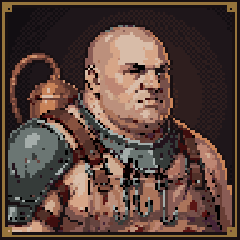
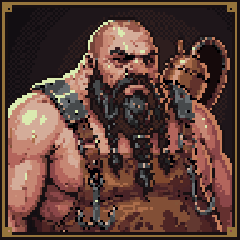
ART3B: stylized re-roll of the 9 human Sunk Ward portraits (ART3_PROMPTS.md style block gains stylization and hair lines, Mara Voss as style and framing reference only; faction-scaled character blocks with varied hair); user picks placed (Vane, Quell, Orlov, Nemeth, Husk, Tess, Bram take 1; Purifier
Review: change-reviewer ship (note: the placed Tess was made with the old left-ear prompt; a Tess re-roll is queued, asked first)
Gate: check_project.ps1 -Fast -Quiet passed, 467 tests; tools/fc.sh docs clean; 18 image API calls

diff --git a/games/emberwake/docs/specs/ART3_PROMPTS.md b/games/emberwake/docs/specs/ART3_PROMPTS.md
@@ -18,11 +18,26 @@ victims on screen, so every Unsealed youth drawn here is an adult; Tess (19, an 
 adult. Where the sources leave a detail open (hair, beard, age in looks), the block makes a best guess; change it
 freely.
 
+ART3B (user 2026-10-25, the stylized re-roll of the nine human portraits; 2 takes each, Gemini 3 Pro Image): the
+style block gains a stylization line and a hair line, and Mara Voss sets the pixel style and framing only (preference
+"Characters are stylized, not realistic", [assets-world.md](../preferences/assets-world.md)). Each human block names
+how far its features are pushed: the hub cast (Tess, Bram, Aline) readable and warm, Captain Vane in between, the
+Clerisy (Quell, Nemeth, the Purifier), the corrupted (the Calcified Husk) and Orlov much further. Hair now varies by
+character; a hood, cowl or habit veil stays only where the brief needs it (the Purifier's gas-mask hood). What the lore
+fixes stays: Tess's deaf, burned ear (her right ear since the user's call of 2026-10-25, so it shows in the
+right-facing framing; the ART3B takes were made with the left ear and no re-roll is run yet), Bram's loupe over the
+right eye and scarred throat, Aline's cropped soot-black hair and defaced habit, Quell's neck valve, Nemeth's grey skin
+and throat vial. The two creature blocks are unchanged and were not re-rolled. The user's ART3B picks (2026-10-25:
+take 1 of Vane, Quell, Orlov, Nemeth, the Husk, Tess and Bram, take 2 of the Purifier and Aline) are now
+`art_src/<id>.png` and the game portraits; the ART3 picks went back to their `_gen` names as takes.
+
 Every prompt starts with the same style block:
 
 ```text
-Use the attached image (Mara Voss) as the style reference: the same pixel-art style, level of detail, framing, lighting, outline weight and flat dark background. This is a different subject, not the person in the reference.
+Use the attached image (Mara Voss) only as the reference for pixel-art style and framing: the same pixel-art technique, level of detail, framing, lighting, outline weight and flat dark background. Do not copy her face, her hair, her build or her proportions: this is a different subject with its own stylized proportions.
 Pixel art character portrait for a gothic dark fantasy tactical RPG set in a sunless church city lit only by tallow lanterns, in the style of detailed 16-bit SNES/GBA-era RPG portraits. Square 1:1 image. Head and shoulders (for a creature: head and forequarters), the head filling about half the frame, three-quarter view facing slightly to the viewer's right, eyes looking right. Strong cool key light from the upper left, a warm amber tallow-lantern rim light (#d97706) from the right edge, deep shadows on the far side of the face. Clear dark outlines, hand-placed pixel clusters, limited palette with 4 shades per colour, light dithering on metal and cloth. Muted, matte, grimy materials: dented iron, boiled leather, wool and soot-stained linen; anything corrupted is jet-black bone, chalk-white calcified growth and glowing violet marrow. Colours only from this palette and its shades: void black #0a0b10, damp basalt #14171f, wet slate #1e232d, rotting oak #2c221e, scavenged iron #4b5563, polished steel #9ca3af, bleached linen #d9cbb4, cinder ash #6b7280, boiled leather #92400e, tallow amber #d97706, candle gold #fbbf24, arterial red #e11d48, rust crimson #991b1b, blight violet #9333ea, resonant orchid #c084fc, salt cyan #06b6d4; human skin #6b4a3a / #a47a5f / #d4a988, pale and underfed. The subject reads clearly against the dark: mid-tone figure, bright accents only on small details. Plain flat very dark background (#120e12), no gradient, no scenery, nothing behind the figure. No border, no frame, no text, no logo, no watermark.
+Stylized, not realistic: an expressive, larger-than-life character design with a bold, readable silhouette and pushed shapes (jaw, brow, cheekbones, nose, neck and build exaggerated to show who the character is), like a dark fantasy game's character art rather than a painted photograph. The character block says how far to push: warm and readable, in between, or far (gaunt, elongated, uncanny or grotesque).
+Hair exactly as the character block describes, with its own length and style; no hood, cowl, veil or tied-back hair unless the character block asks for it.
 ```
 
 ## Monsters
@@ -52,7 +67,7 @@ Main colours: damp basalt chitin, blight violet acid, resonant orchid glow.
 Elite (mage), brief N4. The game: the Inquisition's burner with a pyre nozzle; flushes the cell out of cover.
 
 ```text
-Character: Inquisitorial Purifier, a burner of the Iron Inquisition. Faceless: the whole face is hidden by a bronze bird-beak plague-doctor gas mask with a long curved beak, riveted seams and two round dark glass eye lenses with a faint amber glint; a soot-grey cloth hood over the head. A heavy warded iron apron etched with small ward marks, a thick leather strap across the chest carrying a sulfur canister on the back, a brass hose from it over the shoulder. Soot on everything.
+Character: Inquisitorial Purifier, a burner of the Iron Inquisition. Stylization pushed far: uncanny and inhuman, a tall narrow figure with hunched, sloping shoulders and a long neck craning forward. Faceless: the whole face is hidden by a bronze bird-beak plague-doctor gas mask with an exaggerated, overlong curved beak, riveted seams and two oversized round dark glass eye lenses with a faint amber glint; a soot-grey cloth hood drawn tight over the head and mask (the hood stays: it is part of the gas mask). A heavy warded iron apron etched with small ward marks, a thick leather strap across the chest carrying a sulfur canister on the back, a brass hose from it over the shoulder. Soot on everything.
 Mood: inhuman, methodical, menacing.
 Main colours: scavenged iron and bronze (tallow amber shades) with cinder ash soot.
 ```
@@ -62,7 +77,7 @@ Main colours: scavenged iron and bronze (tallow amber shades) with cinder ash so
 Standard (warrior), brief N5. The game: a corpse the titan's marrow has turned to stone, walking with the Amalgam.
 
 ```text
-Character: Calcified Husk, a petrified corpse. The corpse of a grown man, a former miner in his twenties, risen and half turned to stone: grey rotten skin cracked like dry clay, jet-black bone spurs jutting through the cheek, the collarbone and the shoulder, chalk-white calcified crust over the jaw, empty dark eye sockets with no eyes, the mouth slack. The rags of a miner's leather jerkin and a torn hood. Not gory: dry, dead and stony.
+Character: Calcified Husk, a petrified corpse. Stylization pushed far: grotesque and uncanny, the head long and skull-like, the jaw hanging crooked and too long, one shoulder swollen higher than the other by stone growth. The corpse of a grown man, a former miner in his twenties, risen and half turned to stone: grey rotten skin cracked like dry clay and pulled tight over the bones, large jet-black bone spurs bursting through the cheek, the collarbone and the shoulder, chalk-white calcified crust over the jaw, deep empty dark eye sockets with no eyes, the mouth slack. Long, lank, matted black hair hangs in clumped strands from a scalp half crusted over with chalk-white stone, falling past the jaw. Bareheaded, no hood: the rags of a miner's leather jerkin. Not gory: dry, dead and stony.
 Mood: empty, dead, relentless.
 Main colours: void black bone and cinder ash skin with chalk white crust.
 ```
@@ -75,7 +90,7 @@ Boss (warrior), the founders' portraits row (STORYUI1_TASKS 1.5). The game: Kael
 sold his own men to the Inquisition for a church commission and leads the sweep hunting Kaelen.
 
 ```text
-Character: Captain Vane, Castellan Captain of the Seventh Ward. A man in his forties, a hard handsome clean-shaven face going to fat at the jaw, cropped iron-grey hair, cold pale eyes, a thin contemptuous mouth. Castellan plate armour that he has had gilded, the candle-gold gilding now scratched and defaced with gouges down to the dark iron beneath, a rust-crimson Castellan tabard over it, a gorget. The long haft and hooked blade of an executioner's billhook rises behind his shoulder; the rim of an iron pavise painted with a weeping cathedral eye shows at the edge of the frame.
+Character: Captain Vane, Castellan Captain of the Seventh Ward. Stylization in between: readable and human but pushed, a broad, square, oversized jaw going to fat beneath, a heavy jutting brow, a long hawkish nose, cold pale narrowed eyes and a thin contemptuous mouth turned down at one corner. A man in his forties, clean-shaven, once handsome. Thick iron-grey hair to the collar, swept straight back from a sharp widow's peak and worn loose, its ends curling over the gorget. Castellan plate armour that he has had gilded, the candle-gold gilding now scratched and defaced with gouges down to the dark iron beneath, a rust-crimson Castellan tabard over it, a gorget. The long haft and hooked blade of an executioner's billhook rises behind his shoulder; the rim of an iron pavise painted with a weeping cathedral eye shows at the edge of the frame.
 Mood: cold, ambitious, contemptuous.
 Main colours: candle gold gilding over scavenged iron plate, rust crimson tabard.
 ```
@@ -86,7 +101,7 @@ Boss (warrior), brief N6. The game: "the Scalpel of St. Lyra's", an Inquisition 
 valve in his neck; he denounced Maren.
 
 ```text
-Character: Proctor Quell, the Scalpel of St. Lyra's. A lean, narrow-faced inquisitor in his forties, hollow cheeks, slicked-back thin dark hair, heavy-lidded eyes and a thin, pleased smile. A high-collared white linen cassock gone stiff with black marrow stains and spattered with blood. A brass valve set into the side of his neck, a thin wisp of violet steam venting from it. A bronze bird-beak mask hangs on a chain at his chest; the tips of two bone-saws show at the edge of the frame.
+Character: Proctor Quell, the Scalpel of St. Lyra's. Stylization pushed far: gaunt, elongated and uncanny, a long narrow skull, an overlong thin neck, cheeks sunk to hollows under sharp cheekbones, a long pointed chin, heavy-lidded pale eyes and a thin, too-wide, pleased smile. An inquisitor in his forties. His crown is bald and shining; from the back and sides long, lank, thinning black hair hangs straight and loose past his shoulders. A high-collared white linen cassock gone stiff with black marrow stains and spattered with blood. A prominent brass valve set into the side of his long neck, the skin puckered round it, a thin wisp of violet steam venting from it. A bronze bird-beak mask hangs on a chain at his chest; the tips of two bone-saws show at the edge of the frame.
 Mood: cruel, clinical, amused.
 Main colours: bleached linen white with blight violet marrow stains, brass and scavenged iron.
 ```
@@ -97,7 +112,7 @@ Boss (brawler), brief N7. The game: Guild-Master Orlov, "the Ash-Crawl Butcher",
 Sunk Ward; Vesper's enemy.
 
 ```text
-Character: Guild-Master Orlov, the Ash-Crawl Butcher. An enormous man, obese and heavily muscled, a shaved head shining with grease, heavy jowls, small hard eyes, a thick neck. An iron-plated butcher's harness of boiled leather straps over a stained leather apron, a brass boiler on his back with a steam hose curling over his shoulder, barbed iron meat hooks hanging from the harness at his chest. Warm tallow light glistening on his skin.
+Character: Guild-Master Orlov, the Ash-Crawl Butcher. Stylization pushed far: grotesque, a huge bulk filling the frame, the head small for the vast body, the neck lost in rolls of fat and muscle, massive sloping shoulders, heavy hanging jowls, tiny hard eyes sunk deep in fat, a broad flattened nose. A shaved head shining with grease, and a long, greasy black beard twisted into two thick braids bound with iron rings, hanging down over the harness. An iron-plated butcher's harness of boiled leather straps over a stained leather apron, a brass boiler on his back with a steam hose curling over his shoulder, large barbed iron meat hooks hanging from the harness at his chest. Warm tallow light glistening on his skin.
 Mood: greedy, brutal, self-satisfied.
 Main colours: scavenged iron plates, boiled leather brown, tallow amber brass and light.
 ```
@@ -108,7 +123,7 @@ Boss (warrior), brief N8. The game: Inquisitor-Prelate Nemeth, the marrow-infuse
 Watchpost whom cold steel cannot finish; the Act 1 climax villain, who returns in Act 3.
 
 ```text
-Character: Inquisitor-Prelate Nemeth. A tall, upright man of indeterminate age, gaunt and severe, his skin an unnatural ash grey from marrow infusion, close-cropped white hair, eyes faintly violet, an expressionless mouth. Mirror-polished steel plate armour that reflects the light in hard bright bands, worn over a deep rust-crimson cassock with a high collar; a glass vial of glowing violet tallow-marrow set into the throat of the collar, thin violet veins spreading from it under the grey skin of his neck.
+Character: Inquisitor-Prelate Nemeth. Stylization pushed far: elongated and uncanny, a very long, narrow, severe face, sharp angular cheekbones over sunken cheeks, a high domed forehead, no eyebrows, pale glassy eyes glowing faintly violet, a thin lipless expressionless mouth. A tall, upright man of indeterminate age, his skin an unnatural infused ash grey, smooth and dead like wet stone. Long, straight, fine white hair falls loose from a middle parting, past his shoulders and over the plate like a pale curtain. Mirror-polished steel plate armour that reflects the light in hard bright bands, worn over a deep rust-crimson cassock with a high collar; a glass vial of glowing violet tallow-marrow set into the throat of the collar, thin violet veins spreading from it under the grey skin of his neck and jaw.
 Mood: cold, upright, untouchable.
 Main colours: polished steel and scavenged iron, rust crimson cassock, blight violet vial.
 ```
@@ -121,7 +136,7 @@ Hub NPC (non-combat), the founders' portraits row. The game: Tess Morn, the cell
 board at the Water-Lock Basin; Vesper's former runner contact; deaf in one ear from an Inquisition flash-bomb.
 
 ```text
-Character: Tess Morn, Dead-Drop Courier. A young woman, a young adult, wiry and compact, a sharp quick face with soot smudges, alert narrowed eyes, short choppy dark hair tucked behind one ear. That visible ear is scarred and notched, the skin round it puckered by an old burn from a flash-bomb. Patched leather shingle-armour of overlapping scraps over greasy wool wraps, a courier's satchel strap across the chest with a rolled message tube.
+Character: Tess Morn, Dead-Drop Courier. Stylization warm and readable: large, bright, alert eyes, a small pointed chin, expressive dark brows, a quick lopsided half-smile, a sharp, lively face with soot smudges and a few freckles. A young woman of nineteen, an adult, wiry and compact. Long, thick, wild dark-brown hair: one messy loose braid over her left shoulder, the rest falling free in tangled strands, swept back behind her right ear. Her right ear, the deaf one, on the near side toward the viewer, is scarred and notched, the skin round it puckered by an old burn from a flash-bomb. Patched leather shingle-armour of overlapping scraps over greasy wool wraps, a courier's satchel strap across the chest with a rolled message tube.
 Mood: quick, wary, determined.
 Main colours: boiled leather brown and rotting oak, grey wool wraps, a small tallow amber accent.
 ```
@@ -132,7 +147,7 @@ Hub NPC (non-combat), the founders' portraits row. The game: Bram "Iron-Lung" Ka
 a former master foundryman, lungs ruined, mind intact.
 
 ```text
-Character: Bram "Iron-Lung" Karr, Tinker of the Hearth. A broad, barrel-chested man in his thirties who looks older, close-cropped dark hair and a short soot-streaked beard, a thick scarred throat, a heavy tired brow. An iron jeweller's loupe strapped over his right eye. A scorched cowhide apron studded with riveted pouches over a rolled-sleeve work shirt, soot and burn marks on his forearms. Warm forge glow on one side of his face.
+Character: Bram "Iron-Lung" Karr, Tinker of the Hearth. Stylization warm and readable: a big square head, a huge barrel chest and wide shoulders, a broad flattened nose, a heavy kind-but-tired brow over deep-set eyes. A man in his thirties who looks older. A wild, shaggy mane of dark-brown hair streaked with grey, worn loose to the shoulders, and a big bushy soot-streaked beard; a thick, scarred throat. An iron jeweller's loupe strapped over his right eye. A scorched cowhide apron studded with riveted pouches over a rolled-sleeve work shirt, soot and burn marks on his forearms. Warm forge glow on one side of his face.
 Mood: gruff, steady, stubborn.
 Main colours: boiled leather and scorched cowhide brown, scavenged iron, tallow amber forge glow.
 ```
@@ -143,7 +158,7 @@ Hub NPC (non-combat), the founders' portraits row. The game: Sister Aline Vance,
 the Flesh-Broker voice; a former Anointed Prosector of the Hall of Holy Dissection.
 
 ```text
-Character: Sister Aline, Surgeon of the Apothecary's Slab. A tall, gaunt woman in her late twenties, a sharp pale face with hollow cheeks, cool calculating eyes, cropped soot-black hair. A clerical habit with its holy emblem cut away and defaced, under a stiff leather embalmer's apron stained with vitriol. A bandolier of silver scalpels and bone cannulas across the chest; sulfur-yellow stained fingertips on one hand raised near the strap. Faint early black-violet veins creeping up the side of her neck.
+Character: Sister Aline, Surgeon of the Apothecary's Slab. Stylization readable but cool: a long elegant neck, a long narrow face with high sharp cheekbones and hollow cheeks, large cool calculating eyes under straight dark brows, a small firm mouth. A tall, gaunt woman in her mid-twenties. Cropped soot-black hair, cut short and severe with a razor, ragged at the nape, one longer lock falling over her brow; bareheaded, no veil and no wimple. A clerical habit with its holy emblem cut away and defaced, under a stiff leather embalmer's apron stained with vitriol. A bandolier of silver scalpels and bone cannulas across the chest; sulfur-yellow stained fingertips on one hand raised near the strap. Faint early black-violet veins creeping up the side of her neck.
 Mood: cold, pragmatic, unflinching.
 Main colours: bleached linen and damp basalt habit, boiled leather apron, polished steel scalpels, a hint of blight violet.
 ```

diff --git a/art_src/README.md b/art_src/README.md
@@ -21,6 +21,11 @@ takes), plus variant sheets such as `mara_voss_variant.png`.
   `inquisitorial_purifier`, `calcified_husk`, `captain_vane`, `proctor_quell`, `guild_master_orlov`,
   `inquisitor_prelate_nemeth`, `tess`, `bram`, `aline`); the other candidates stay as `<id>_gen<time>_<n>.png` takes
   (`render_beast` has three: the two first candidates and one re-roll).
+- ART3B (2026-10-25): a stylized re-roll of the nine human portraits (the `ART3_PROMPTS.md` style block with its
+  stylization and hair lines), 2 takes each. The user's picks are now `<id>.png` with `generated_as` naming the
+  original take: take 1 of `captain_vane`, `proctor_quell`, `guild_master_orlov`, `inquisitor_prelate_nemeth`,
+  `calcified_husk`, `tess` and `bram`, take 2 of `inquisitorial_purifier` and `aline`. Each ART3 pick went back to its
+  original `_gen` name as a take; `render_beast` and `ash_crawler` keep their ART3 picks.
 - `ui_1.png`: the PLAYUI1 UI icon sheet (5x5 on a magenta key; prompt in
   `games/emberwake/docs/specs/PLAYUI1_ICONS.md`); `tools/portraits/sheets.py ui art_src/ui_1.png ui_1` cuts it into
   the 22 icons at their layer paths (`--contact` makes a review sheet).
